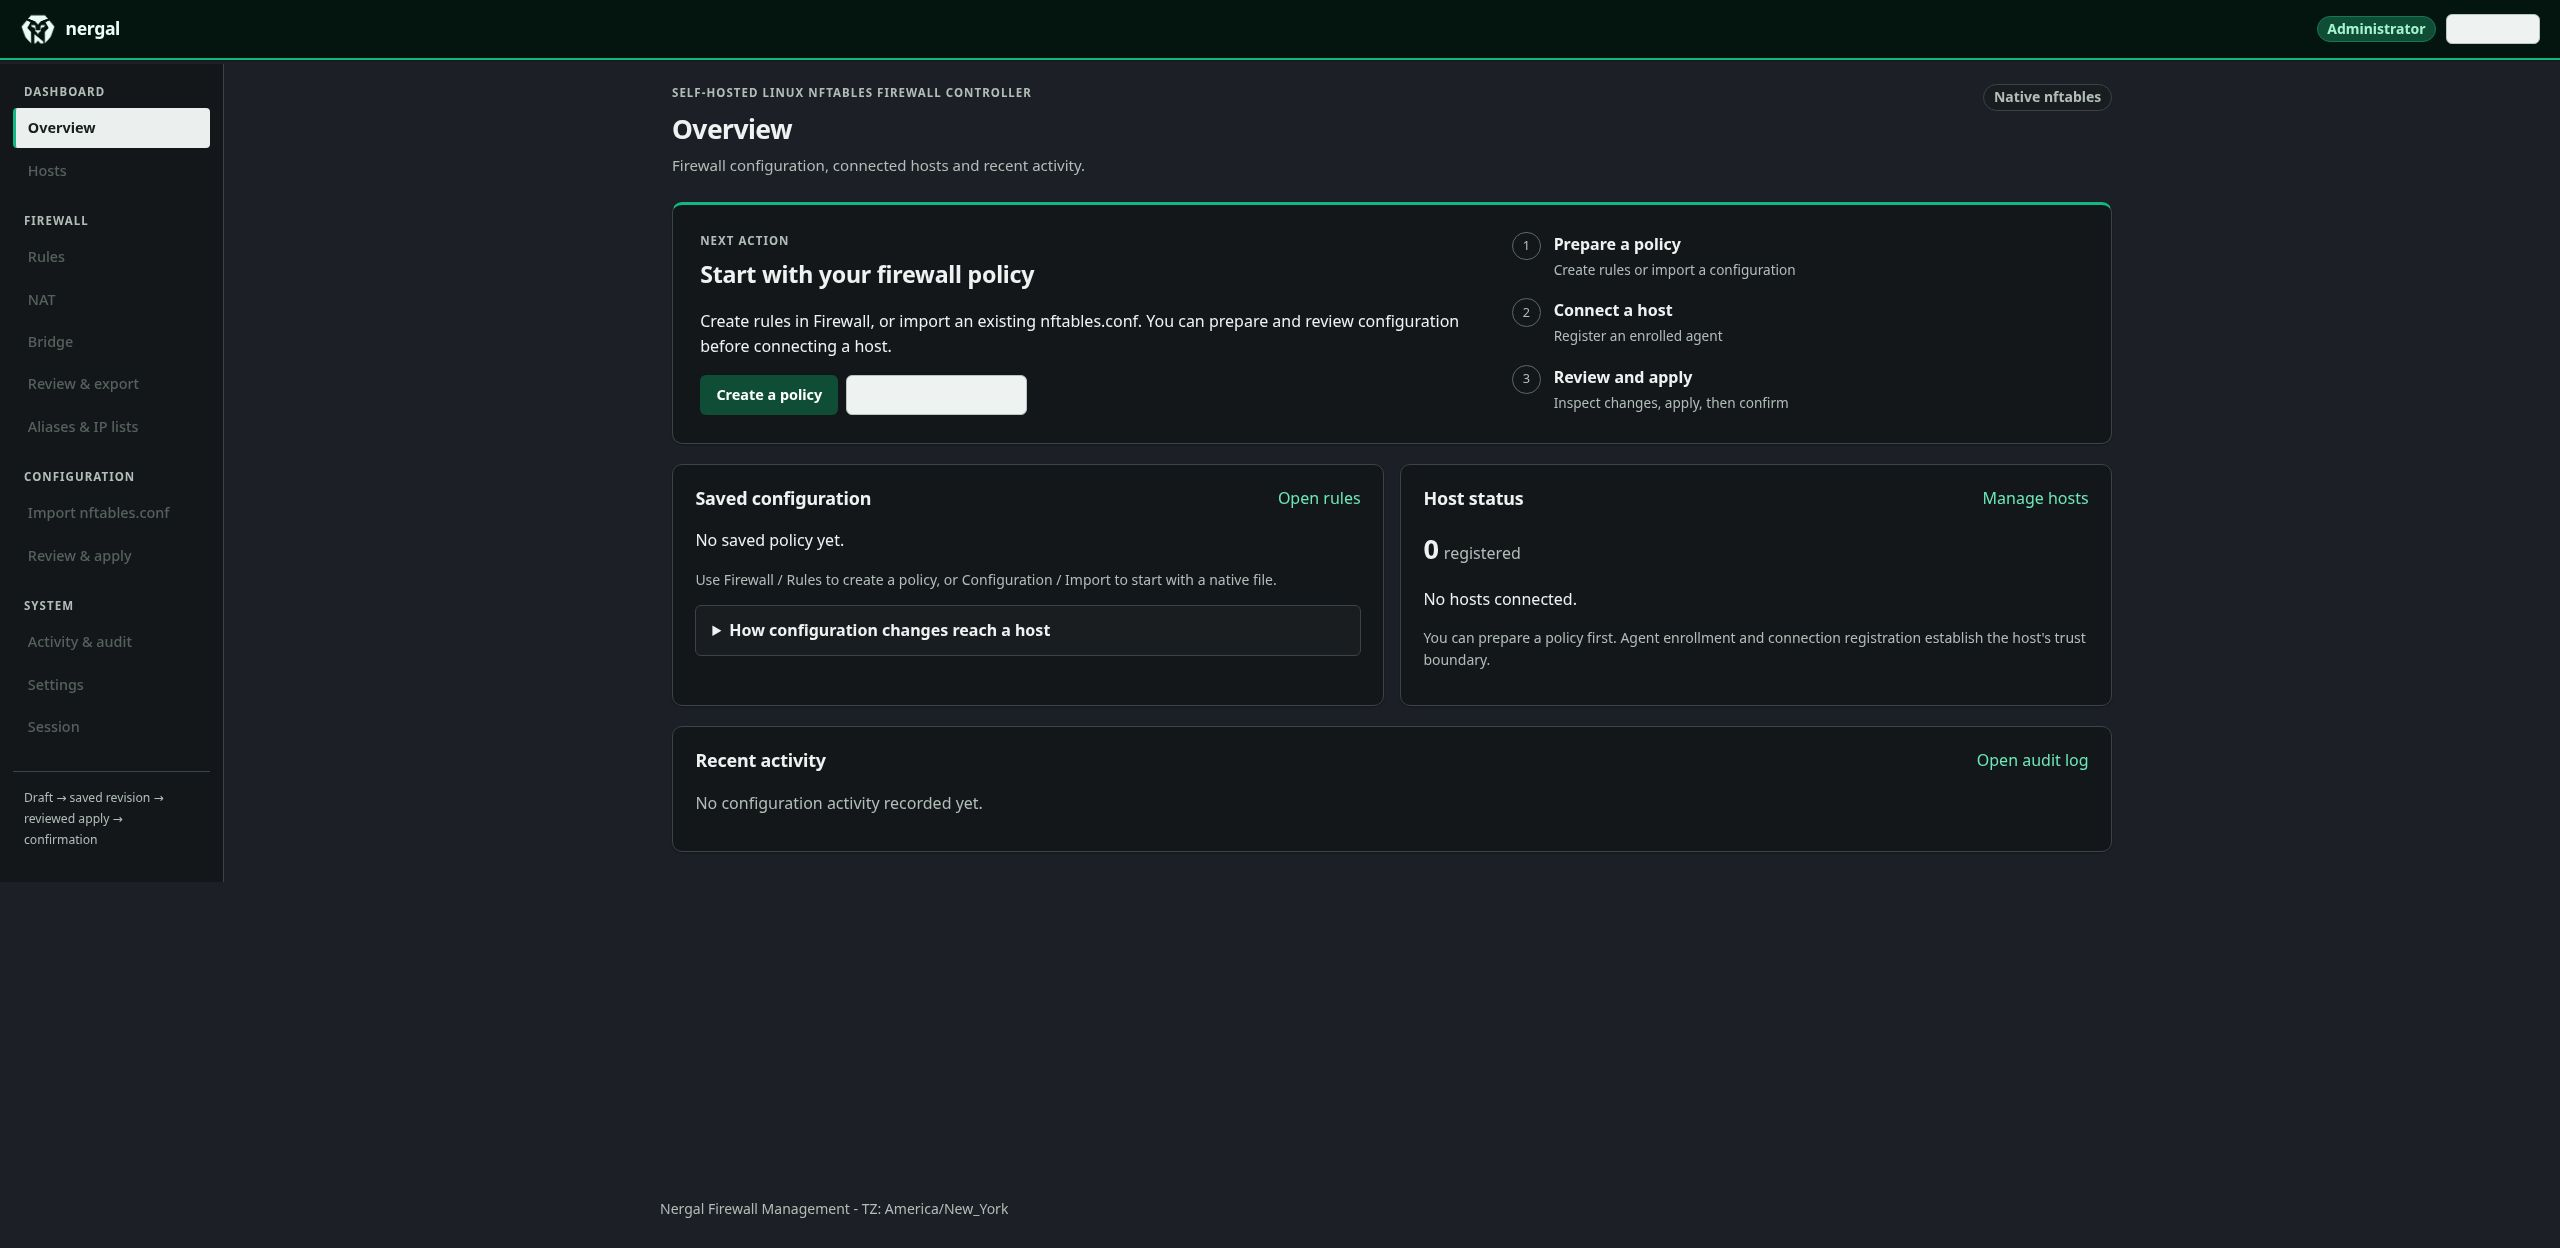
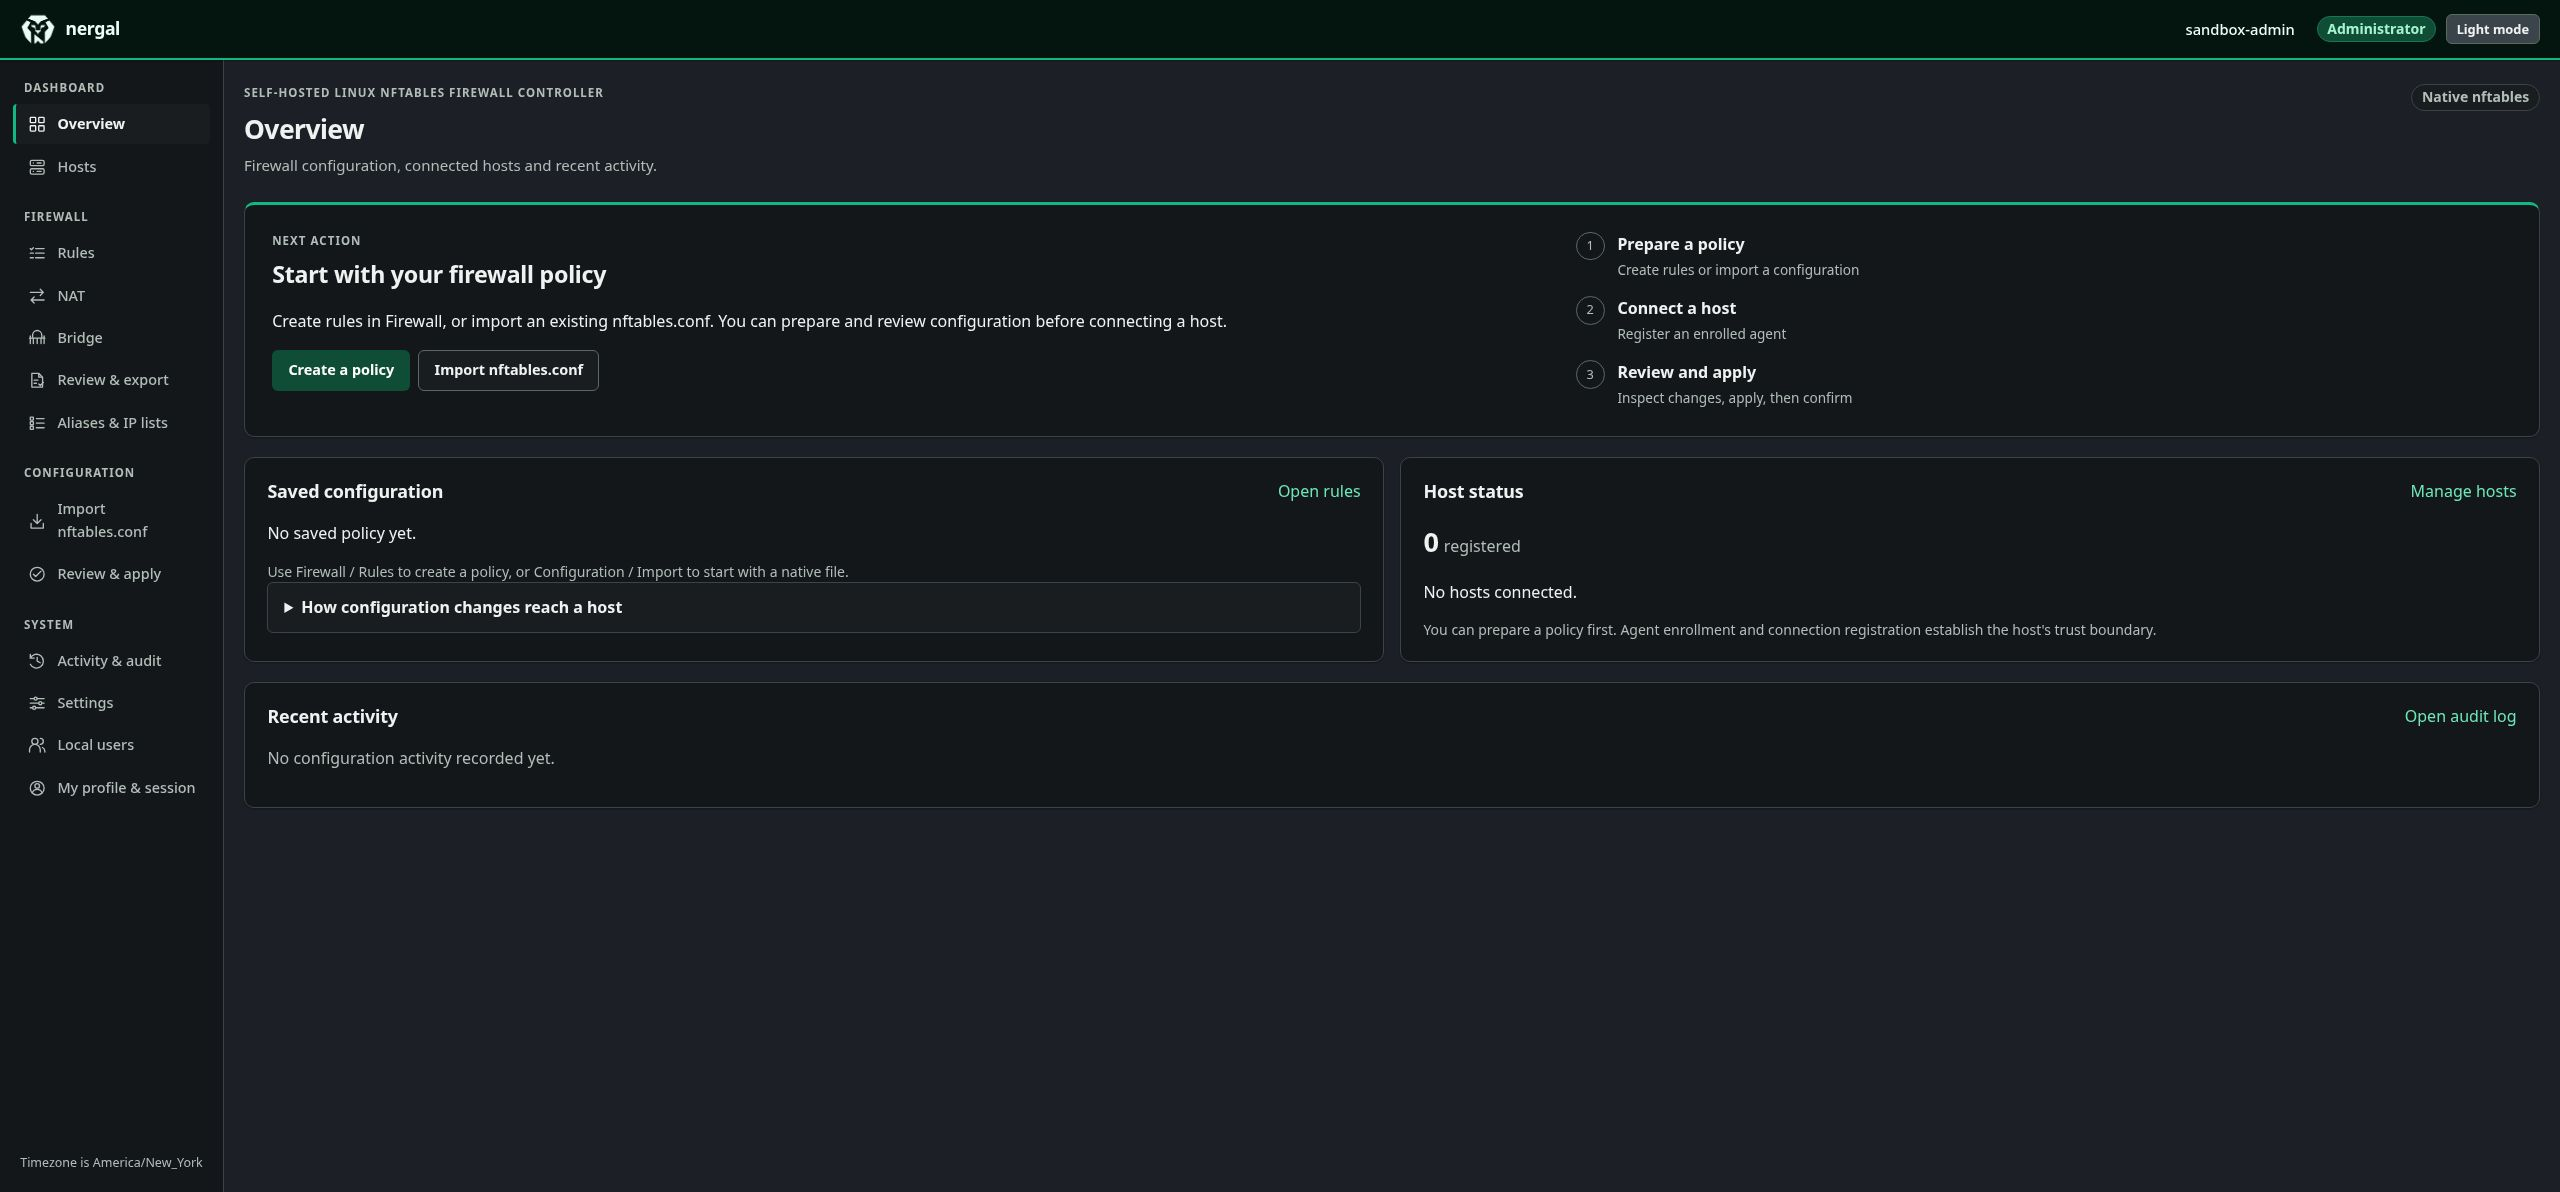
Refresh console screenshots and preserve direct image links in Pages

diff --git a/pages/index.html b/pages/index.html
@@ -42,6 +42,8 @@
       loadNavbar: false,
       subMaxLevel: 3,
       auto2top: true,
+      // Screenshots are files, not Markdown routes. Keep links usable under the project prefix.
+      noCompileLinks: ['assets/screenshots/.*'],
       search: {
         maxAge: 86400000,
         paths: 'auto',
